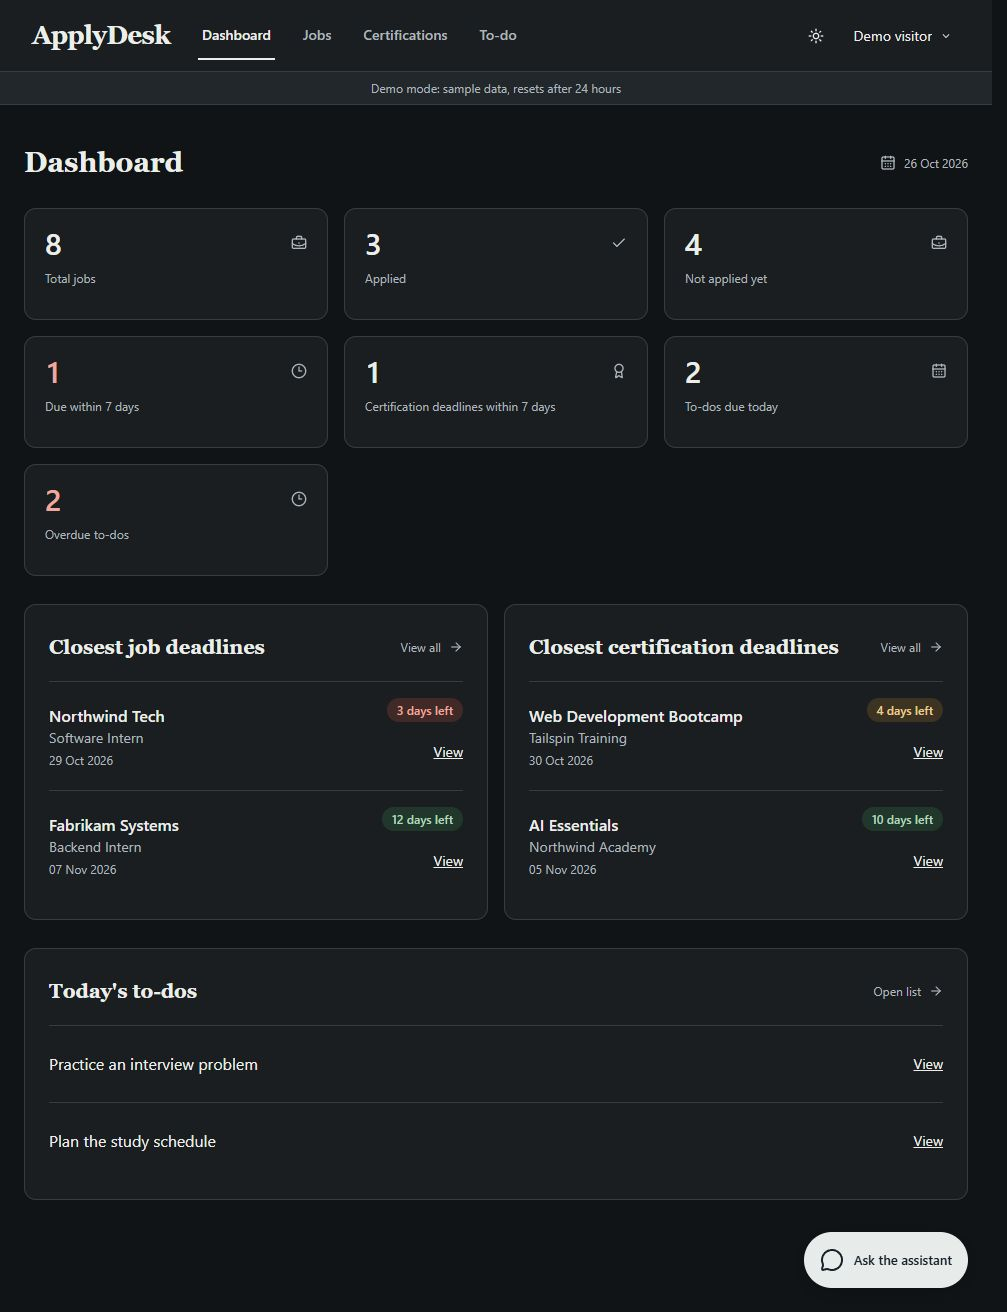
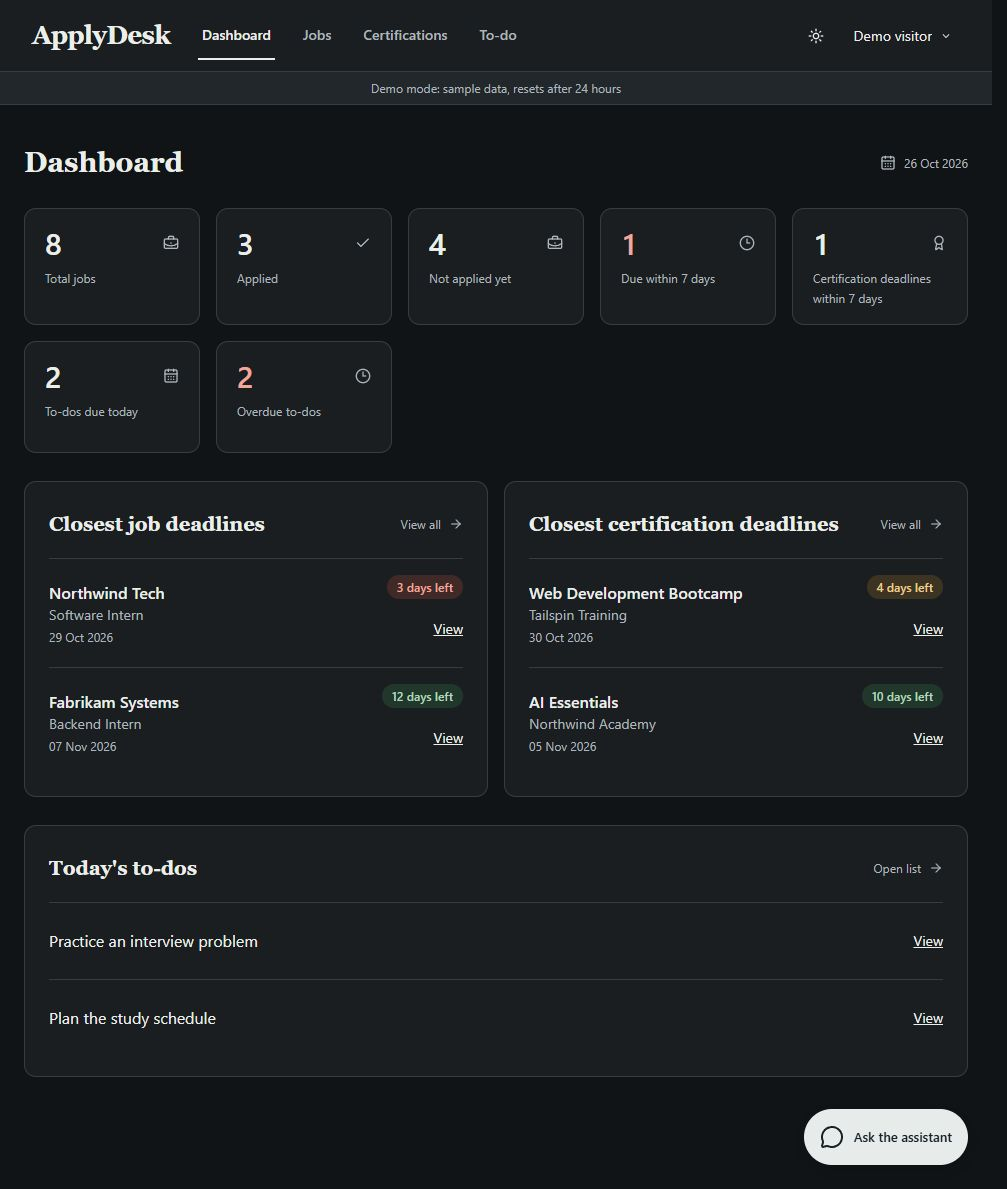
Keep dashboard breakpoints consistent at laptop widths

diff --git a/src/app/(app)/page.tsx b/src/app/(app)/page.tsx
@@ -31,7 +31,7 @@ export default async function Dashboard() {
   ];
   return <div className="space-y-7">
     <div className="flex items-center justify-between gap-4"><h1 className="page-title">Dashboard</h1><span className="flex items-center gap-2 text-xs text-muted-foreground"><CalendarDays className="hidden size-4 sm:block" aria-hidden="true" />{formatDisplay(today)}</span></div>
-    <div className="grid grid-cols-2 gap-3 sm:grid-cols-3 min-[900px]:grid-cols-5 sm:gap-4">
+    <div className="grid grid-cols-2 gap-3 sm:grid-cols-3 min-[56.25rem]:grid-cols-5 sm:gap-4">
       {tiles.map(({ label, count, href, urgent, icon: Icon }) => <Link key={label} href={href} prefetch={false} className="panel min-h-28 px-4 py-4 transition-colors hover:bg-secondary sm:px-5">
         <div className="flex items-center justify-between gap-3"><span className={`block text-3xl font-semibold tabular-nums ${urgent && count > 0 ? 'text-destructive' : ''}`}>{count}</span><Icon className="size-4 shrink-0 text-muted-foreground" aria-hidden="true" /></div><span className="mt-2 block text-xs leading-relaxed text-muted-foreground">{label}</span>
       </Link>)}

diff --git a/src/components/dashboard/deadline-lists.tsx b/src/components/dashboard/deadline-lists.tsx
@@ -8,7 +8,7 @@ import { CertDeadlineBadge } from '@/components/certifications/deadline-badge';
 import { ExpandableText } from '@/components/ui/expandable-text';
 
 export function DeadlineLists({ jobs, certs, today }: { jobs: JobItem[]; certs: CertItem[]; today: string }) {
-  return <div className="grid gap-4 min-[900px]:grid-cols-2">
+  return <div className="grid gap-4 min-[56.25rem]:grid-cols-2">
     <DeadlinePanel title="Closest job deadlines" href="/jobs">
       {jobs.length ? <ul className="divide-y">{jobs.map((job) => <li key={job.id} className="flex items-center justify-between gap-3 py-4">
         <div className="min-w-0"><div className="font-semibold"><ExpandableText text={job.company} lines={2} /></div><div className="text-sm text-muted-foreground"><ExpandableText text={job.role} lines={2} /></div><p className="mt-1 text-xs text-muted-foreground">{job.deadline && formatDisplay(job.deadline)}</p></div>
